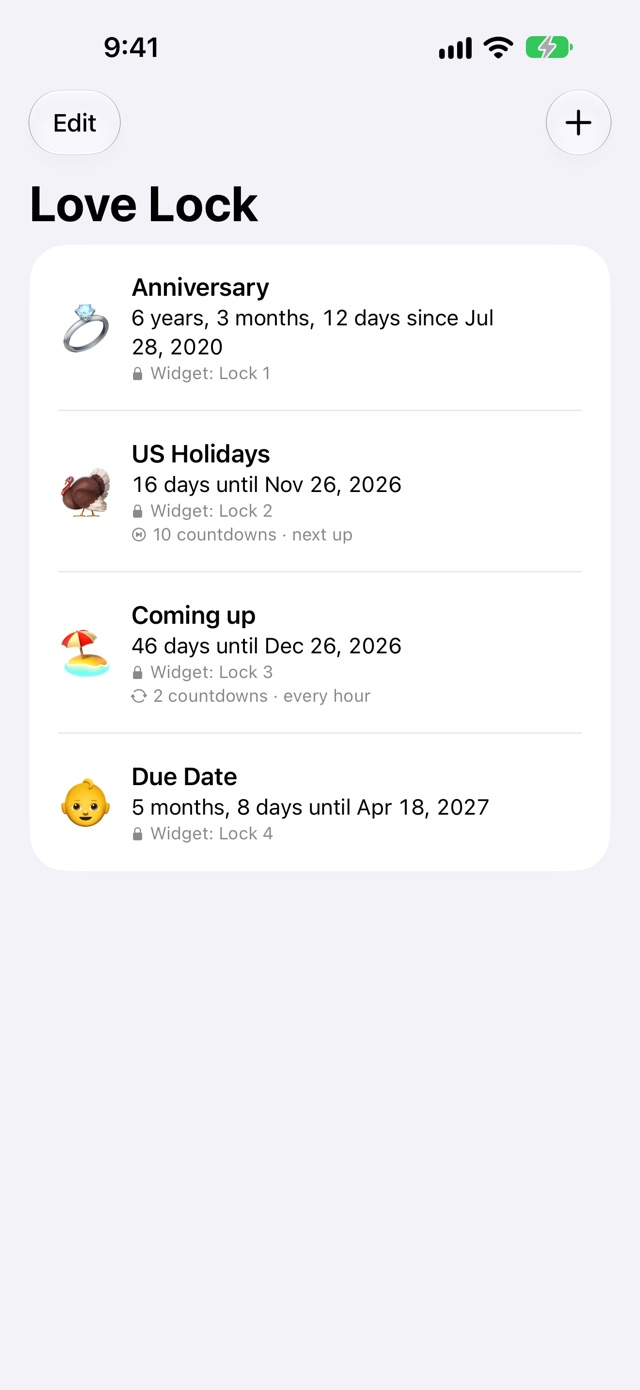
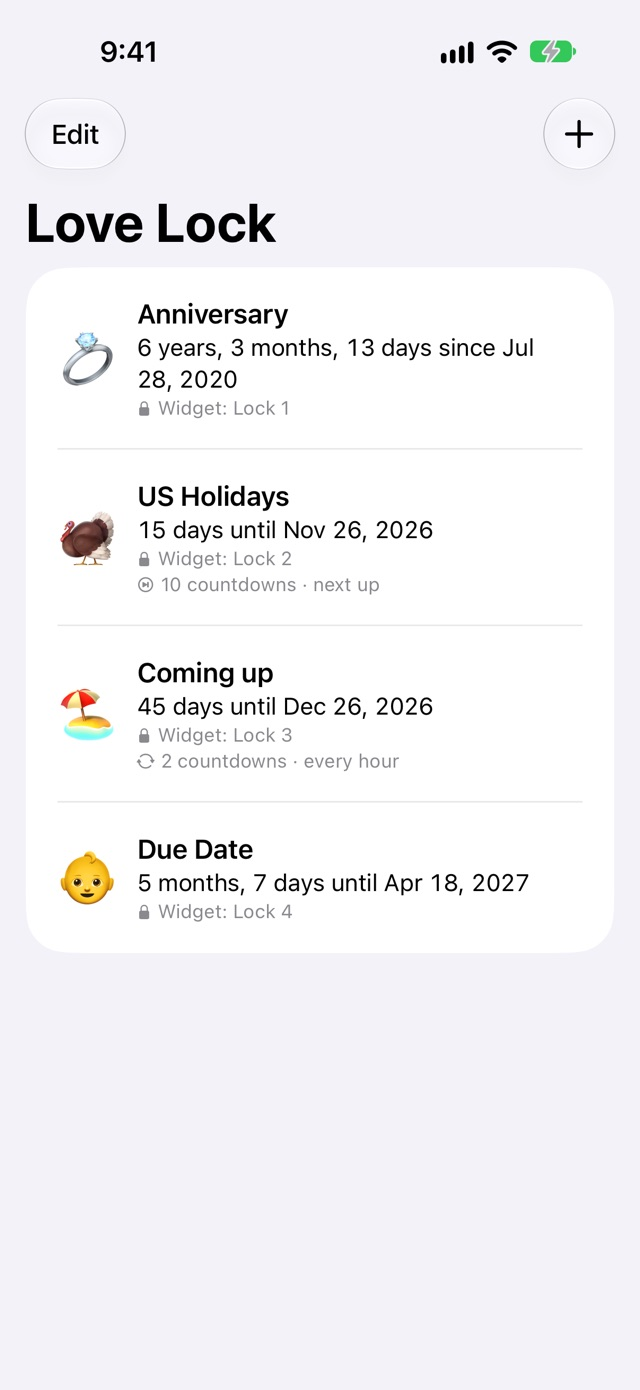
[Love Lock] Refresh screenshots, show widget backgrounds

diff --git a/love-lock/index.html b/love-lock/index.html
@@ -38,12 +38,12 @@
             <svg viewBox="0 0 20 20" aria-hidden="true"><path fill="currentColor" d="M10 18.3s-7.3-4.4-7.3-9.6A4.2 4.2 0 0 1 10 6a4.2 4.2 0 0 1 7.3 2.7c0 5.2-7.3 9.6-7.3 9.6Z"/></svg>
             Coming soon to the App Store
           </p>
-          <p class="note">For iPhone with iOS 18 or later. No account, no ads, and nothing leaves your phone.</p>
+          <p class="note">For iPhone with iOS 18 or later, including iPhone Duo, folded or open. No account, no ads, and nothing leaves your phone.</p>
         </div>
 
         <figure class="phone">
           <img src="/love-lock/images/lock-screen.jpg" width="640" height="1390"
-            alt="An iPhone Lock Screen at 9:41 with Love Lock widgets below the clock: Together, 6 years, 3 months, 12 days since Jul 28, 2020, and circular widgets for Thanksgiving in 16 days and a beach vacation in 46 days.">
+            alt="An iPhone Lock Screen at 9:41 with Love Lock widgets below the clock: Together, 6 years, 3 months, 13 days since Jul 28, 2020, and circular widgets for Thanksgiving in 15 days and a beach vacation in 45 days.">
         </figure>
       </div>
 
@@ -59,7 +59,7 @@
           <article>
             <span class="emoji" aria-hidden="true">📐</span>
             <h3>Every Lock Screen size, and more</h3>
-            <p>Circular, rectangular, and inline on the Lock Screen, plus small and medium widgets for the Home Screen and StandBy. Make up to eight locks, each with its own widget.</p>
+            <p>Circular, rectangular, and inline on the Lock Screen, plus small and medium widgets for the Home Screen and StandBy, in the color or gradient you choose. Make up to eight locks, each with its own widget.</p>
           </article>
           <article>
             <span class="emoji" aria-hidden="true">⏱</span>
@@ -107,7 +107,7 @@
             <figure>
               <div class="phone">
                 <img src="/love-lock/images/home-screen.jpg" width="640" height="1390" loading="lazy"
-                  alt="An iPhone Home Screen with Love Lock widgets: a medium anniversary widget counting 6 years, 3 months, 12 days, and small widgets for a beach vacation in 46 days and Thanksgiving in 16 days.">
+                  alt="An iPhone Home Screen with Love Lock widgets: a medium anniversary widget counting 6 years, 3 months, 13 days, and small widgets for a beach vacation in 45 days and Thanksgiving in 15 days, all on a solid red background.">
               </div>
               <figcaption><strong>Home Screen too</strong>The same locks, in small and medium sizes.</figcaption>
             </figure>
@@ -116,9 +116,18 @@
             <figure>
               <div class="phone">
                 <img src="/love-lock/images/lock-preview.jpg" width="640" height="1390" loading="lazy"
-                  alt="Editing a lock that rotates every hour between a beach vacation and a birthday, with a preview of its circular, rectangular, and inline Lock Screen widgets.">
+                  alt="Editing a lock that rotates every hour, with a preview of its circular, rectangular, and inline Lock Screen widgets.">
               </div>
-              <figcaption><strong>Preview before you save</strong>See each widget size on the Lock Screen or Home Screen.</figcaption>
+              <figcaption><strong>Preview before you save</strong>See each Lock Screen size exactly as it will look.</figcaption>
+            </figure>
+          </li>
+          <li>
+            <figure>
+              <div class="phone">
+                <img src="/love-lock/images/home-preview.jpg" width="640" height="1390" loading="lazy"
+                  alt="The Home Screen preview of a lock, showing its small and medium widgets in red, above a picker for a solid or gradient background.">
+              </div>
+              <figcaption><strong>Your colors</strong>Give each lock's Home Screen widgets a solid color or a gradient.</figcaption>
             </figure>
           </li>
           <li>
@@ -146,15 +155,6 @@
                   alt="The countdown editor for Thanksgiving, set to the fourth Thursday of November.">
               </div>
               <figcaption><strong>Date rules</strong>Thanksgiving is always the fourth Thursday of November.</figcaption>
-            </figure>
-          </li>
-          <li>
-            <figure>
-              <div class="phone">
-                <img src="/love-lock/images/holidays-menu.jpg" width="640" height="1390" loading="lazy"
-                  alt="The add menu, listing US, religious, and cultural holidays.">
-              </div>
-              <figcaption><strong>Holidays built in</strong>Pick one, or add the whole US Holidays lock.</figcaption>
             </figure>
           </li>
         </ul>
